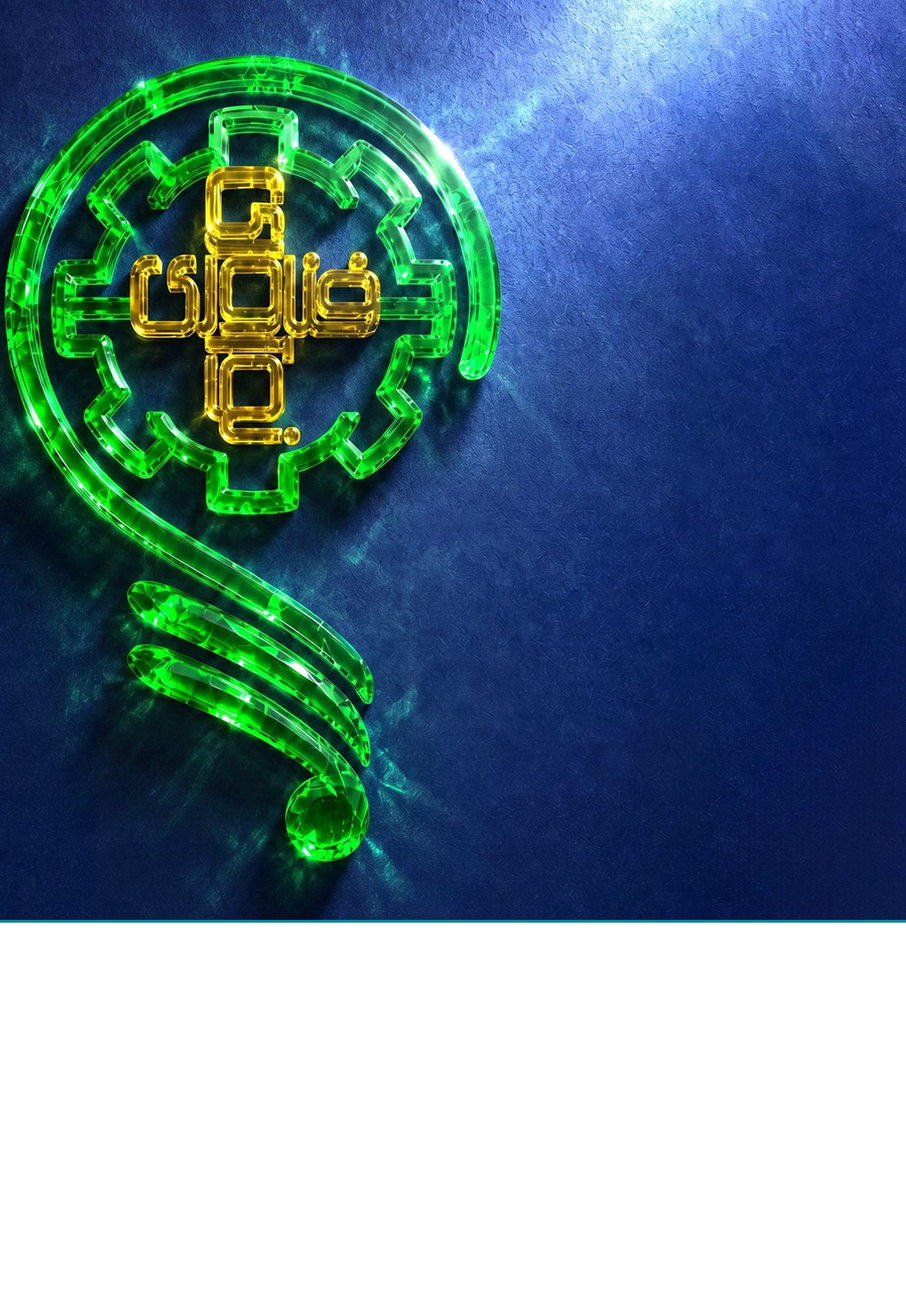
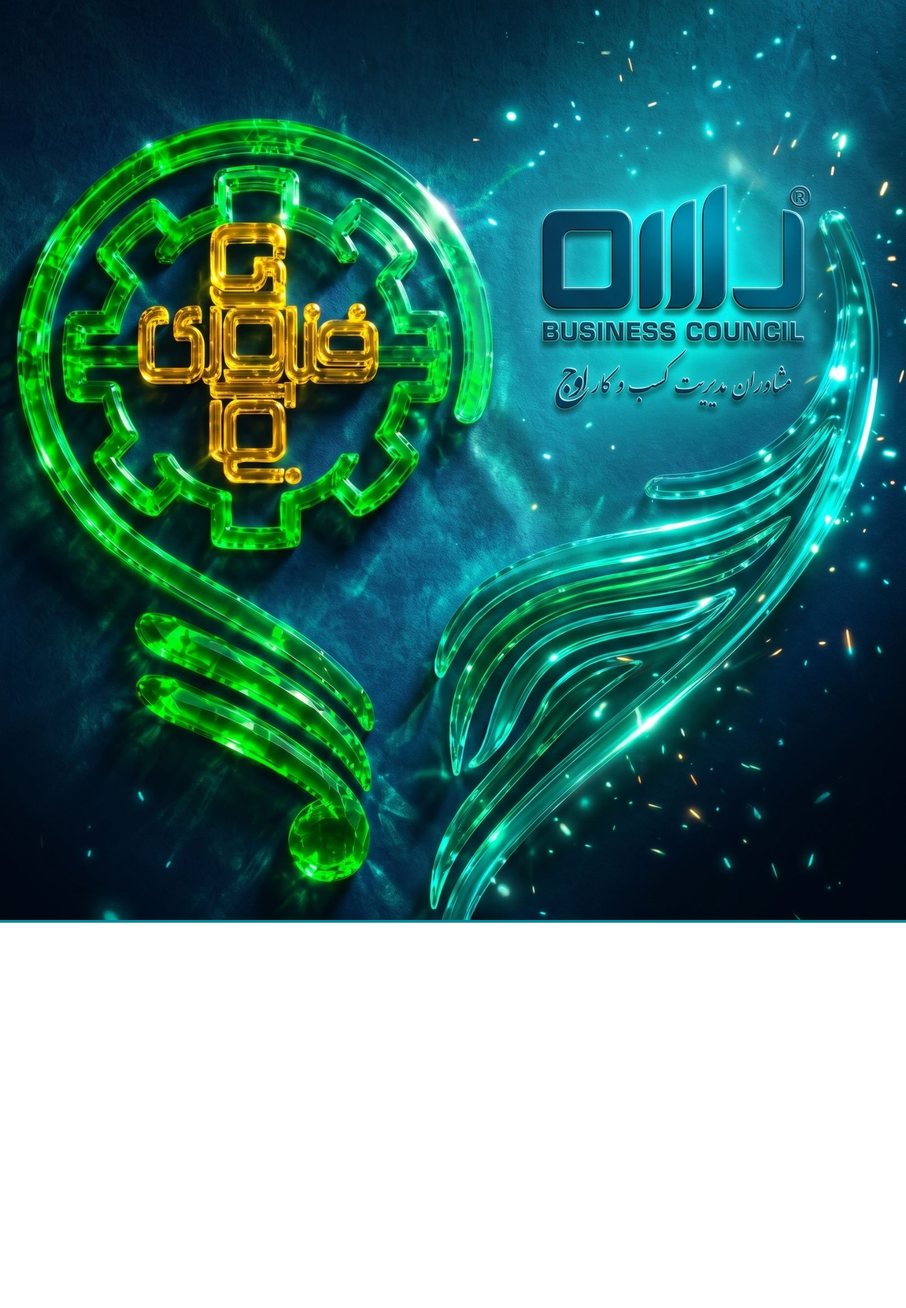
feat: update cover with custom 3D Daneshmand and OWJ artwork
- Replace cover graphic with combined 3D Daneshmand gear-bulb and OWJ Business Council artwork
- Composite 1650x2383 A4 cover with seamless framing and cyan technical rule
- Reinforce high-contrast white bottom information panel

diff --git a/src/App.tsx b/src/App.tsx
@@ -742,8 +742,8 @@ export default function App() {
                         className="w-full h-full object-cover transition-transform duration-300 group-hover:scale-[1.01]"
                       />
 
-                      {/* Bottom 29.5% Cover Typography, QR Code & Contact Strip placed directly on Picture5's lower canvas */}
-                      <div className="absolute inset-x-0 bottom-0 h-[29.5%] px-5 pb-3.5 pt-1 flex flex-col justify-between text-right">
+                      {/* Bottom 29.5% Cover Typography, QR Code & Contact Strip */}
+                      <div className="absolute inset-x-0 bottom-0 h-[29.5%] px-5 pb-3.5 pt-2 flex flex-col justify-between text-right bg-white border-t border-[#008B99]">
                         <div className="flex items-center justify-between gap-3">
                           <div className="space-y-1 flex-1">
                             <p className="text-xs sm:text-sm font-black text-[#0F172A] leading-snug">

diff --git a/src/components/RedesignedBrochurePages.tsx b/src/components/RedesignedBrochurePages.tsx
@@ -155,7 +155,7 @@ export const RedesignedBrochurePages: React.FC<RedesignedBrochurePagesProps> = (
           />
 
           {/* Bottom 29.5% Overlay */}
-          <div className="absolute inset-x-0 bottom-0 h-[29.5%] z-10 px-12 pb-6 pt-9 flex flex-col justify-between">
+          <div className="absolute inset-x-0 bottom-0 h-[29.5%] z-10 px-12 pb-6 pt-9 flex flex-col justify-between bg-white border-t-2 border-[#008B99]">
             {/* Upper Block: Full-Width Single-Line Right-Aligned Titles + Cyan Rule */}
             <div className="w-full">
               <div className="pr-4 space-y-2 text-right">
